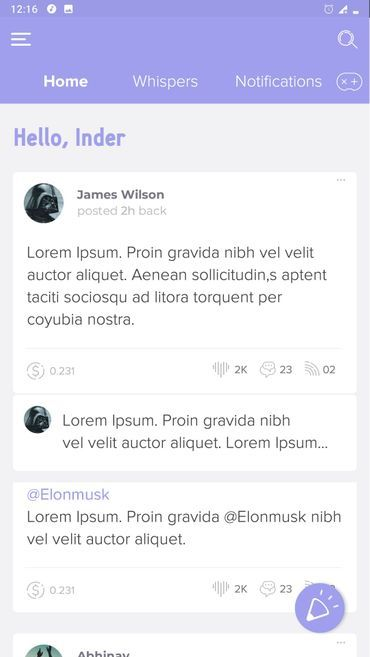
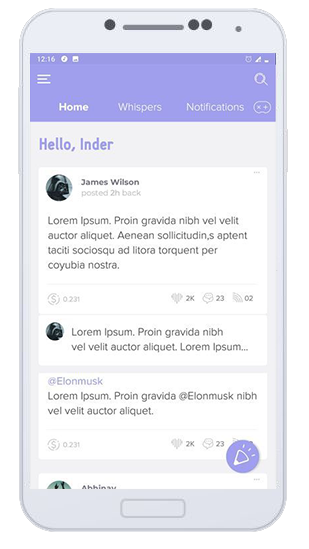
color changed and home page pic added

diff --git a/css/main.css b/css/main.css
@@ -149,8 +149,8 @@ button{
 .bd-top{ border-top: 1px solid #eaeaea;}
 .bd-bottom{ border-bottom: 1px solid #eaeaea;}
 .bg-gradiant{
-    background: #3b21ff;  /* fallback for old browsers */
-    background: linear-gradient(-45deg, #3b21ff 40%, #56a2ff 100%);
+    background: #a09fed;  /* fallback for old browsers */
+    background: linear-gradient(-45deg, #a09fed 40%, #56a2ff 100%);
 }
 .mb-10{ margin-bottom: 10px; }
 .mb-15{ margin-bottom: 15px; }
@@ -314,9 +314,9 @@ a,a:hover, .overlay, img, .form-control,  .form-control:hover, button{
     padding: 10px 0;
 }
 .navbar-fixed-top.header-section{
-    background: #3b21ff;  /* fallback for old browsers */
-    background: -webkit-linear-gradient(to right, #3b21ff, #56a2ff);
-    background: linear-gradient(to right, #3b21ff, #56a2ff);
+    background: #a09fed;  /* fallback for old browsers */
+    background: -webkit-linear-gradient(to right, #a09fed, #56a2ff);
+    background: linear-gradient(to right, #a09fed, #56a2ff);
     -webkit-box-shadow: 0 0 15px rgba(0,0,0,0.06);
     box-shadow: 0 0 15px rgba(0,0,0,0.06);
     -webkit-transition: background-color .5s;
@@ -565,7 +565,7 @@ ul.nav > li > a.active{
     color: #fff;
 }
 .ocean{
-    background: #3b21ff;
+    background: #a09fed;
     height: 10%;
     width:100%;
     position:absolute;
@@ -625,7 +625,7 @@ ul.nav > li > a.active{
     font-size: 50px;
 }
 .promo-content i{
-    background-image: linear-gradient(-45deg, #3b21ff 40%, #56a2ff 100%);
+    background-image: linear-gradient(-45deg, #a09fed 40%, #56a2ff 100%);
     -webkit-background-clip: text;
     -webkit-text-fill-color: transparent;
     font-weight: 700;
@@ -653,7 +653,7 @@ ul.nav > li > a.active{
     align-items: center;
 }
 .content-item i{
-    background: linear-gradient(-45deg, #3b21ff 40%, #56a2ff 100%);
+    background: linear-gradient(-45deg, #a09fed 100%, #56a2ff 40%);
     color: #fff;
     width: 70px;
     height: 70px;
@@ -698,7 +698,7 @@ ul.nav > li > a.active{
     transition: all 0.3s ease-in-out;
 }
 .feature-box:hover{
-    background: linear-gradient(-45deg, #3b21ff 40%, #56a2ff 100%);
+    background: linear-gradient(-45deg, #a09fed 40%, #56a2ff 100%);
     box-shadow: 0 5px 10px 0 rgba(0, 0, 0, 0.5);
     transition: all 0.3s ease-in-out;
 }
@@ -713,7 +713,7 @@ ul.nav > li > a.active{
     color: #ddd;
 }
 .feature-box i{
-    background: linear-gradient(-45deg, #3b21ff 40%, #56a2ff 100%);
+    background: linear-gradient(-45deg, #a09fed 40%, #56a2ff 100%);
     color: #fff;
     font-size: 50px;
     height: 90px;
@@ -767,7 +767,7 @@ ul.nav > li > a.active{
     margin-top: -50px;
 }
 .video-box:before{
-    background: linear-gradient(-46deg, #56a2ff 50%, #3b21ff 100%);
+    background: linear-gradient(-46deg, #56a2ff 50%, #a09fed 100%);
     position: absolute;
     content: "";
     width: 100%;
@@ -791,7 +791,7 @@ ul.nav > li > a.active{
     margin-right: 30px;
 }
 .play-icon i{
-    background-image: linear-gradient(-45deg, #3b21ff 40%, #56a2ff 100%);
+    background-image: linear-gradient(-45deg, #a09fed 40%, #56a2ff 100%);
     -webkit-background-clip: text;
     font-weight: 700;
 }
@@ -809,7 +809,7 @@ ul.nav > li > a.active{
    Screenshot Section
    ========================================================================== */
 .owl-nav div{
-    background: #56a2ff;
+    background: #a09fed;
     box-shadow: 0px 16px 28px 0px rgba(0, 0, 0, 0.24);
     text-align: center;
     font-size: 18px;
@@ -914,7 +914,7 @@ ul.nav > li > a.active{
    Pricing Section
    ========================================================================== */
 .pricing-box{
-    background: linear-gradient(-45deg, #56a2ff 30%, #3b21ff 100%);
+    background: linear-gradient(-45deg, #56a2ff 30%, #a09fed 100%);
     padding: 40px;
     border-radius: 5px;
     transition: all 0.3s ease-in-out;
@@ -1063,7 +1063,7 @@ ul.nav > li > a.active{
     margin: 0;
 }
 .blog-content .read-more:hover{
-    background-color: #3b21ff;
+    background-color: #a09fed;
     color: #fff;
     box-shadow: 0 5px 10px 0 rgba(0, 0, 0, 0.1);
     -webkit-transform: translateY(1.1);
@@ -1150,7 +1150,7 @@ ul.nav > li > a.active{
 }
 .subscribe-form .submit:hover{
     cursor: pointer;
-    color: #3b21ff;
+    color: #a09fed;
 }
 #subscribe-result{
     display: none;
@@ -1216,7 +1216,7 @@ ul.nav > li > a.active{
     z-index: 999;
 }
 #scroll-to-top:hover{
-    background-color: #3b21ff;
+    background-color: #a09fed;
     color: #fff;
 }
 #scroll-to-top-tele{
@@ -1298,5 +1298,5 @@ ul.nav > li > a.active{
 }
 .subscribe-form-new .submit:hover{
     cursor: pointer;
-    color: #3b21ff;
+    color: #a09fed;
 }

diff --git a/airdrop.html b/airdrop.html
@@ -69,7 +69,7 @@
                                 <li><a data-scroll class="nav-link" href="#home">Airdrop</a></li>
                                 <li><a data-scroll class="nav-link" href="vision">Vision</a></li>
                                 <li><a data-scroll class="nav-link" href="team">Team</a></li>
-                                <<!-- li style="width: 140px;margin: auto;">
+                                <!-- li style="width: 140px;margin: auto;">
                                     <button onclick="location.href='https://www.t.me/murmurdapp'" type="button" class="btn btn-outline-primary" style="width: 100%;border-color: #ffffff;">
                                         <div class="row" style="padding-left: 10px;padding-right: 10px;">
                                             <div><i class="fa fa-telegram fa-2x" style="color: white;"></i></div>

diff --git a/css/team.css b/css/team.css
@@ -123,11 +123,11 @@ p span
     width:1.125rem;height:1.125rem
  }
 .card_designer-sites__link:hover,.safe-focus .card_designer-sites__link:focus{
-    background-color: #3b21ff;
+    background-color: #a09fed;
     box-shadow:none !important
 }
 .card_designer-sites__link:active{
-    background-color:#3b21ff
+    background-color:#a09fed
 }
 .card_designer-sites__icon{
     fill:#D9D9D9;transition:fill ease-in-out 250ms
